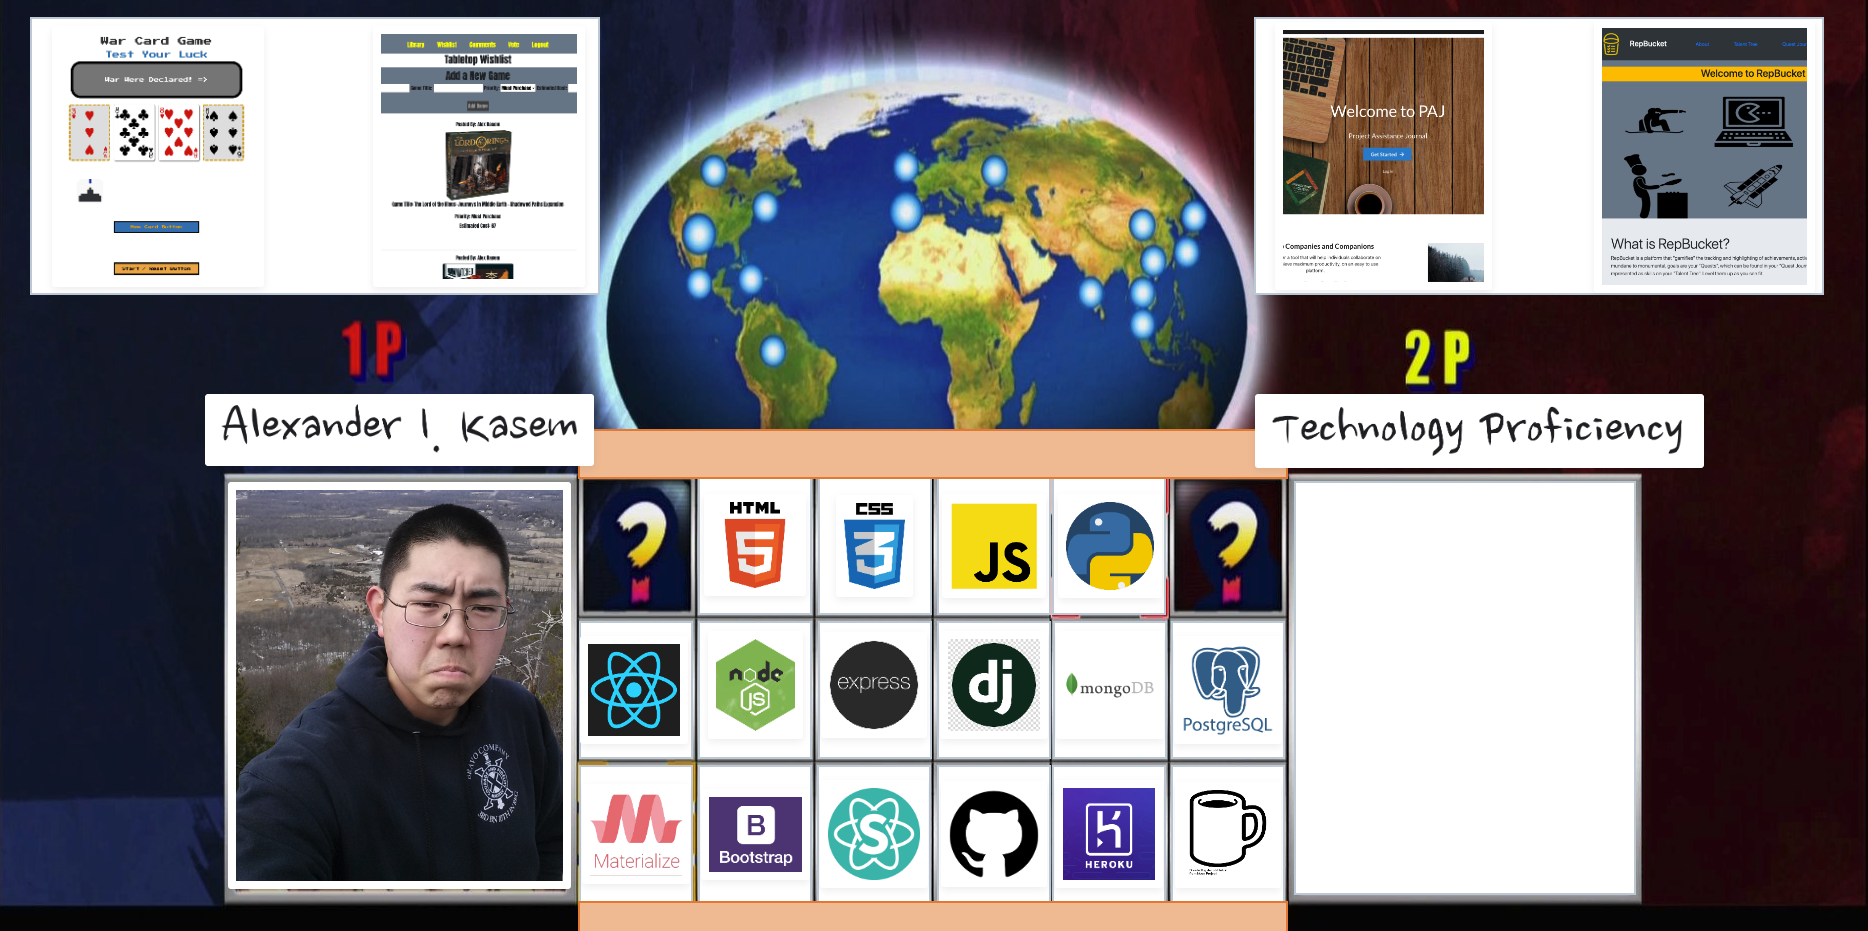
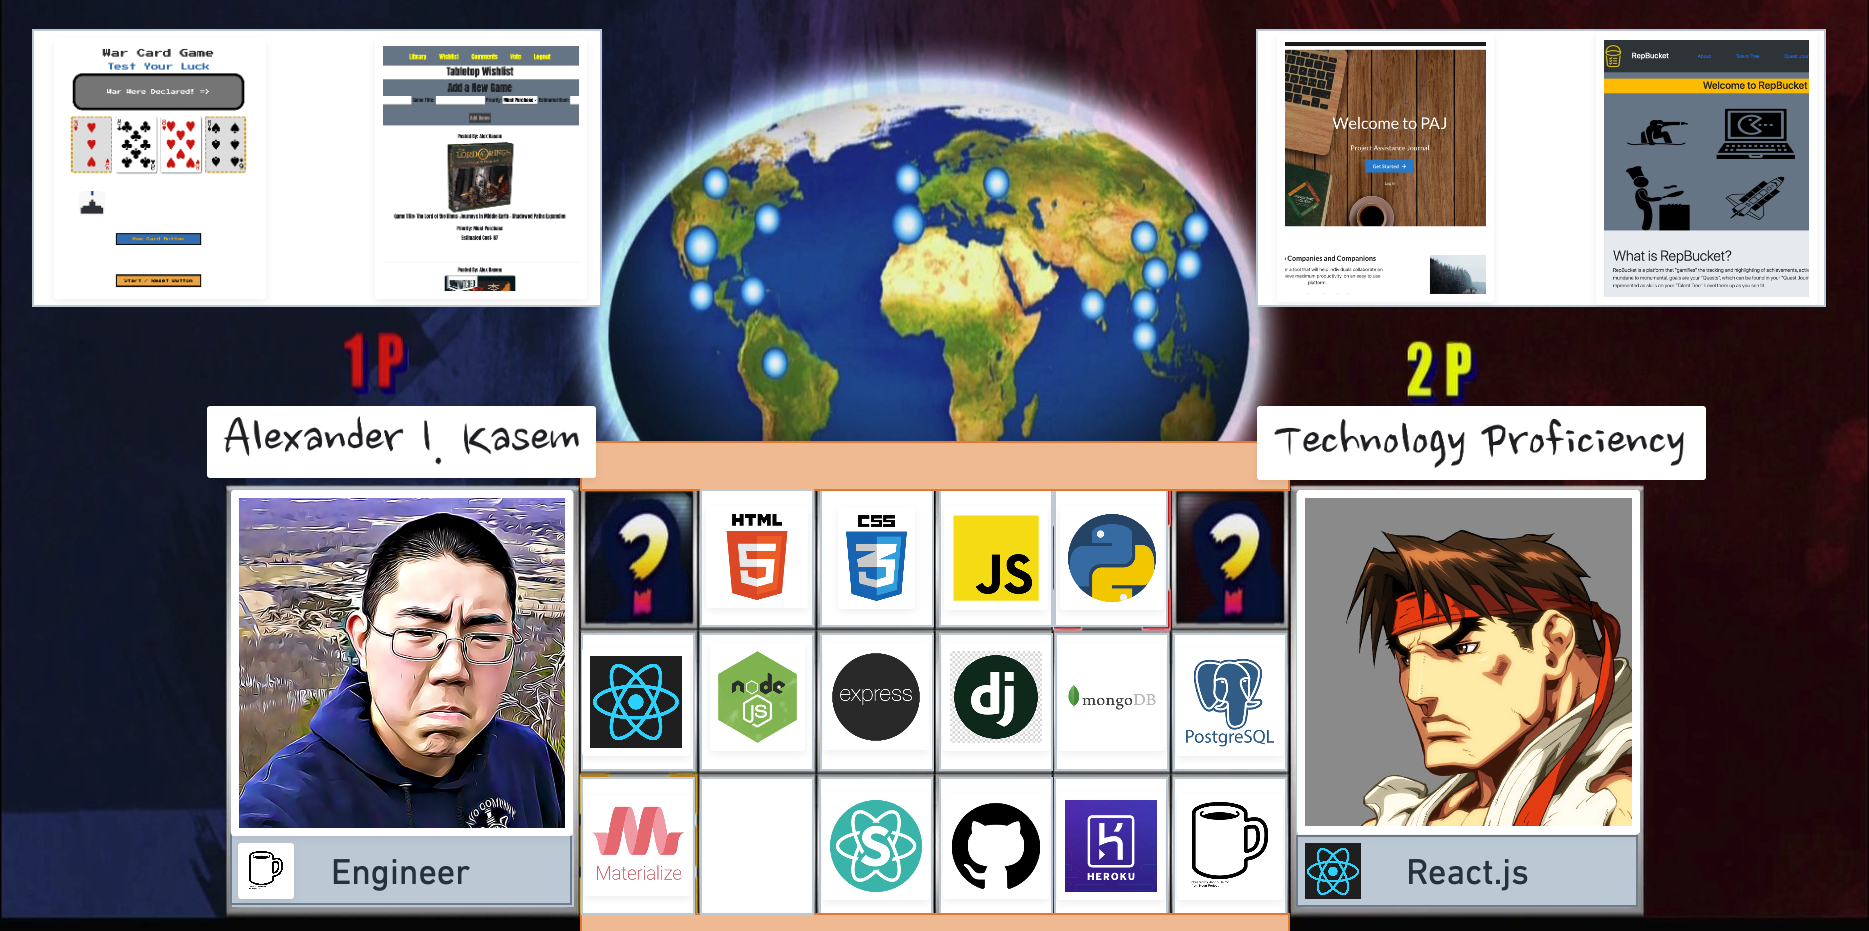
Toggle view image revision

diff --git a/src/components/Interest/Interest.jsx b/src/components/Interest/Interest.jsx
@@ -14,7 +14,7 @@ const Interest = () => {
             </Divider>
             <h2>Programming and...</h2>
 
-            <Segment placeholder>
+            <Segment placeholder >
                 <Grid columns={2} stackable textAlign='center'>
                     <Divider vertical></Divider>
                     <Grid.Row verticalAlign='middle'>

diff --git a/README.md b/README.md
@@ -2,6 +2,14 @@
 
 > Four major projects and info.
 
+# Technologies:
+- React.js
+- Semantic UI React
+- Howler JS
+- HTML5
+- CSS3
+
+
 # References:
 // https://medium.com/@cgroom/a-software-engineers-one-page-portfolio-4f85ab8a20d1
 // https://www.springboard.com/blog/programmer-portfolio/https://www.springboard.com/blog/programmer-portfolio/
@@ -15,3 +23,6 @@
 // https://freesound.org/people/pumodi/sounds/150222/
 // https://www.npmjs.com/package/react-howler
 // https://fonts.google.com/specimen/Nanum+Brush+Script?category=Handwriting&query=brush+&preview.text=Technology%20Proficiency&preview.text_type=custom
+// https://stackoverflow.com/questions/56553576/react-clicking-on-resume-header-doesnt-download-resume-pdf-file
+// capcom
+// https://thenounproject.com/term/coffee/4112/
